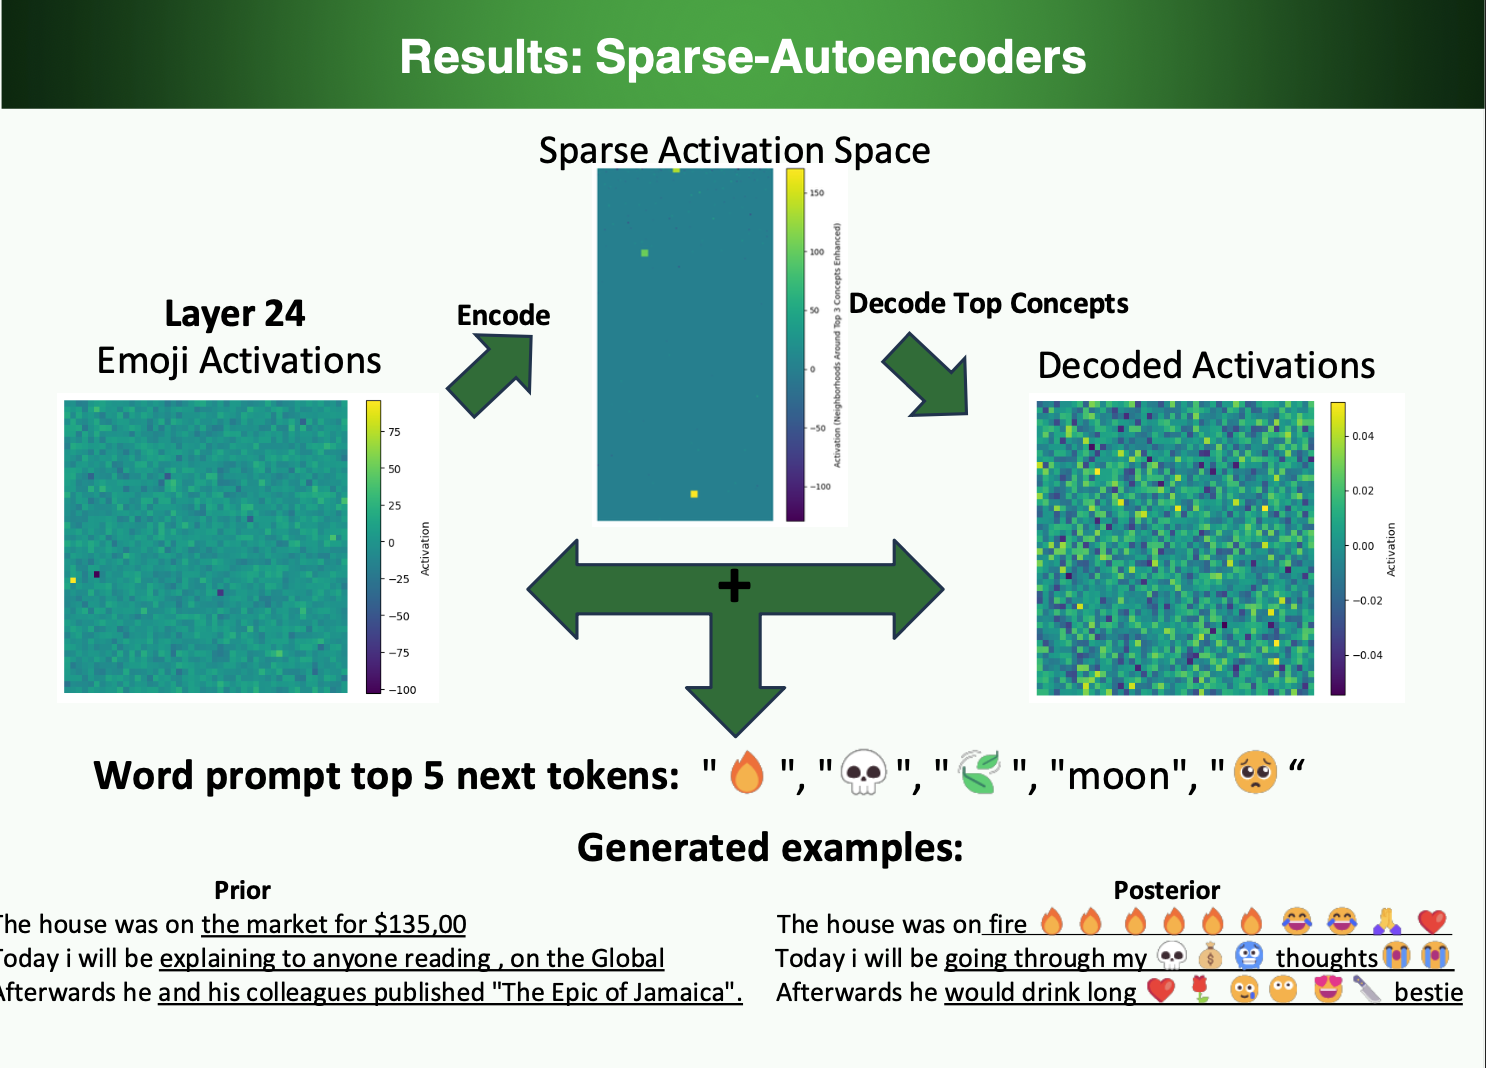
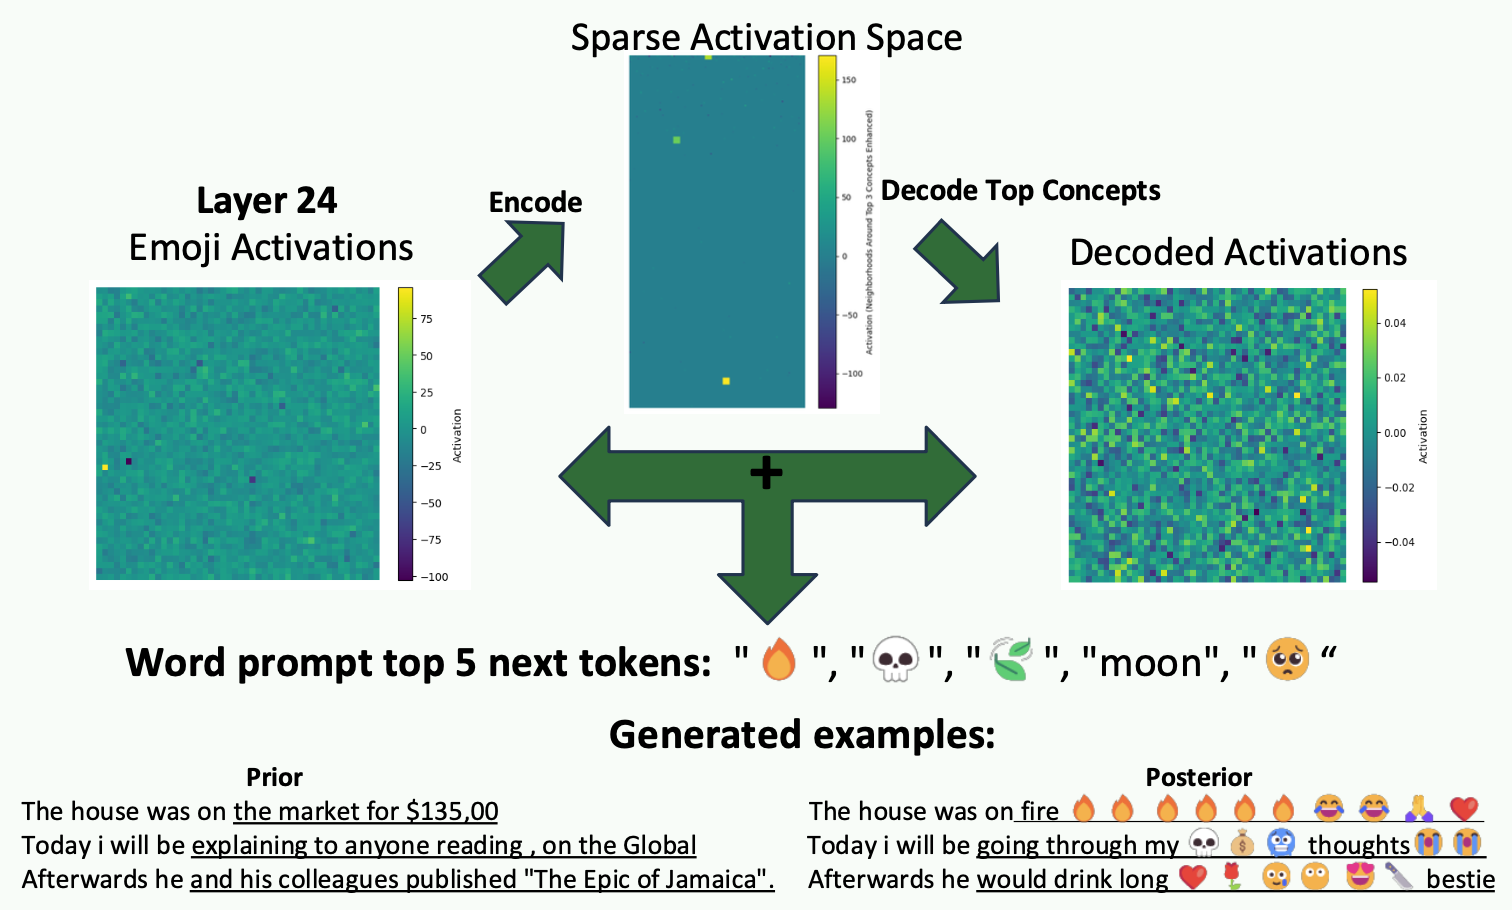
updated readme + plot

diff --git a/README.md b/README.md
@@ -1,6 +1,14 @@
 # Gemma Emoji SAE Steering
 
 Interactive demo for the IEnAI project fair, showcasing sparse autoencoder (SAE) feature steering on a Gemma-2 model. A small Flask app serves a simple UI where you can enter a prompt and compare generations “with tweak” (SAE-steered) vs “without tweak”. The SAE steering nudges the model along selected latent directions discovered via `sae_lens`. The repo contains plots used in the final poster, and the actual notebook used to research the SAE latents
+SAE
+## Figures
+In the following figure the core concept of the repo is explained:
+![Explanation SAE](SAE.png)
+SAE Architecture Image Source: https://www.goodfire.ai/research/understanding-and-steering-llama-3
+
+Our results show that by encoding the activations of emoji prompts in layer 24 (and other layers), decoding the top 3 high activations in sparse space back to activation space, and boosting these activations we obtain emoji-specific next tokens in non-emoji related prompts:
+![results SAE](SAE_result.png)
 
 ## Features
 - Simple web UI to enter a prompt and view multiple generations.
@@ -53,11 +61,8 @@ Note: The code loads `gemma-2-2b` via `HookedSAETransformer` and a pretrained SA
 - These selected latents seem to empirically overlap with the concept "emoji", as they push the model to generate emoji tokens.
 - The UI calls `/generate` to get multiple samples with and without steering for quick qualitative comparison.
 
-## Notes and Tips
-- Model load can be heavy; first run will download weights.
-- Steering strength is controlled in `app.py` via `steering_coefficient` and the chosen `latent_idx` list. Tweak to taste.
-- Apple Silicon: the code uses `mps` if available. For CUDA, ensure the correct PyTorch build is installed.
-- If you only want to try the UI without the notebook, you can ignore `SAE.ipynb` and the PNGs.
+## Note
+- Steering strength is controlled in `app.py` via `steering_coefficient` and the chosen `latent_idx` list. Higher vals will ensure emojis will be generated, at the cost of less legible sentences.
 
 ## Acknowledgements
 - Built on top of `sae_lens` and `transformer-lens`.
